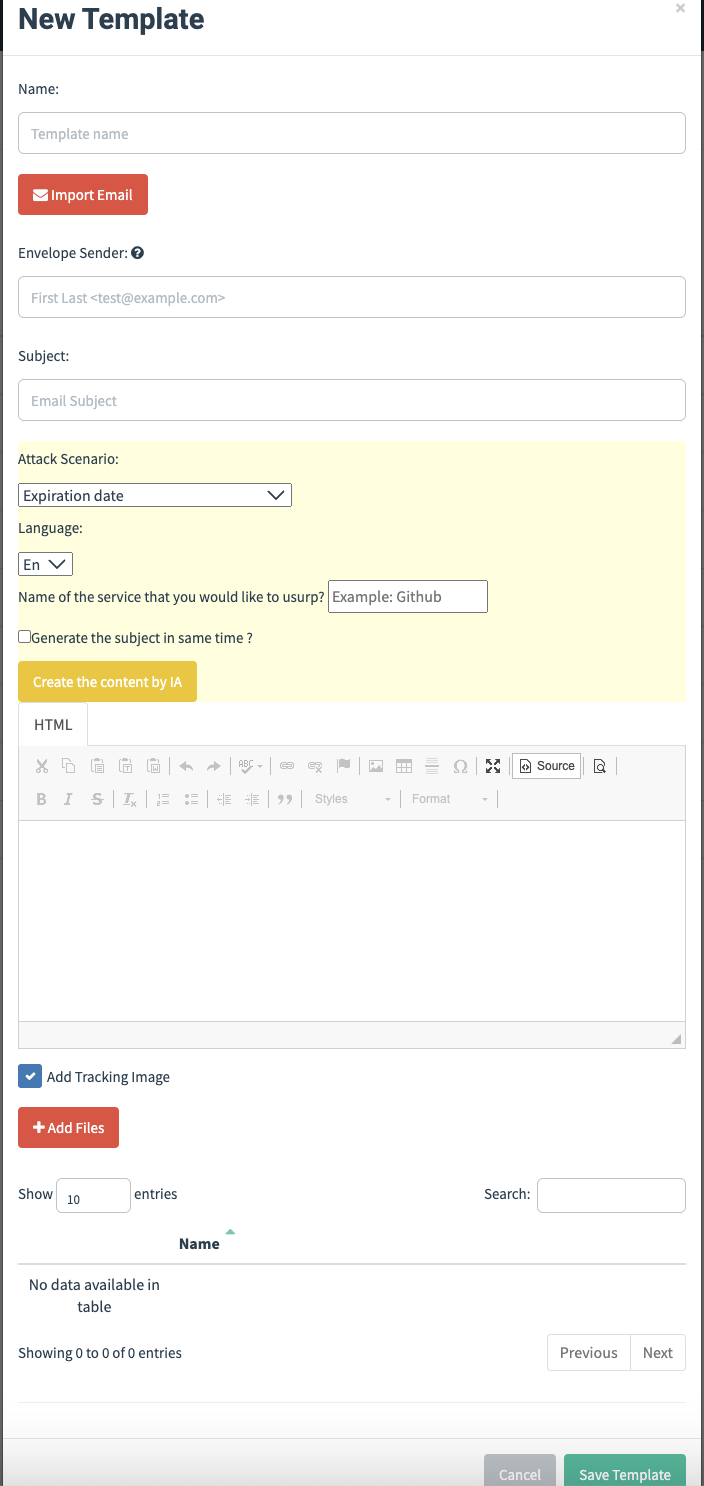
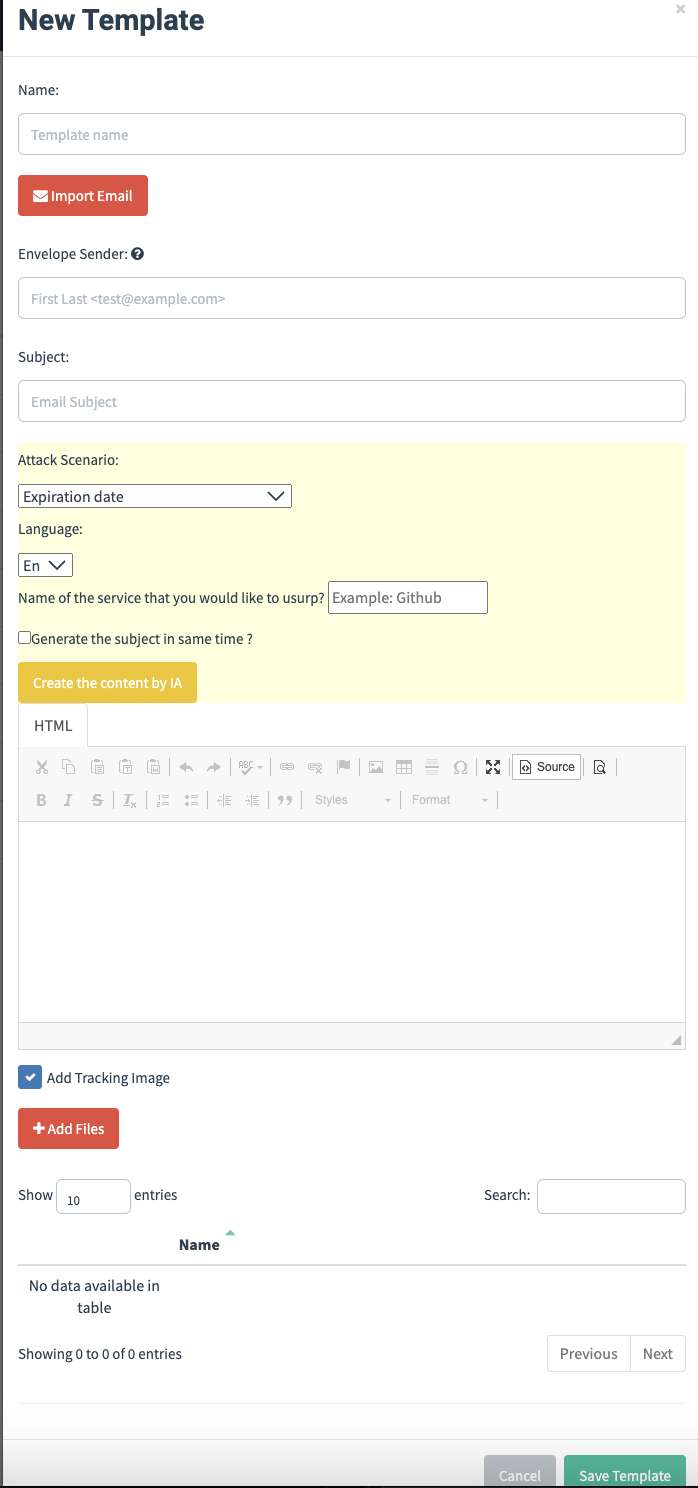
GITBOOK-34: change request with no subject merged in GitBook

diff --git a/documentation/templates.md b/documentation/templates.md
@@ -8,13 +8,15 @@ Additionally, templates can contain tracking images so that gophish knows when t
 
 To create a template, first navigate to the “Email Templates” page and click the “New Template” button.
 
-![](<../.gitbook/assets/image (4).png>)
+![](../.gitbook/assets/image.png)
+
+The envelloper sender define the email that will be displayed in the email. We recommend you to use a domain that you bought via the Domain page.&#x20;
 
 ### Using the HTML Editor
 
 A powerful feature of Gophish is the HTML editor. To switch between the HTML source code and the visual view, click the "Source" button.
 
-![HTML Editor](https://imgur.com/elue6xK.png)
+![](<../.gitbook/assets/image (1).png>)
 
 This is helpful to ensure that the email received by the user is pixel-perfect.
 

diff --git a/building-your-first-campaign/creating-the-template.md b/building-your-first-campaign/creating-the-template.md
@@ -6,7 +6,7 @@ To create the template we will use for our Morning Catch campaign, first navigat
 
 We invite you to read [Template documentation](../documentation/templates.md)
 
-![](../.gitbook/assets/image.png)
+![](<../.gitbook/assets/image (2).png>)
 
 We notice that Morning Catch comes with a webmail portal. Let’s craft a simple template that suggests the user needs to go reset their password. Obviously, this is a simple scenario, and by using the "Import Email" feature, you can import existing emails directly into gophish for a greater effect.
 

diff --git a/documentation/campaigns.md b/documentation/campaigns.md
@@ -35,7 +35,7 @@ After you have the campaign configuration ready to go, click the "Launch Campaig
 
 When a campaign is launched, you are automatically redirected to the campaign results screen:
 
-<figure><img src="../.gitbook/assets/image (1).png" alt=""><figcaption></figcaption></figure>
+<figure><img src="../.gitbook/assets/image (1) (1).png" alt=""><figcaption></figcaption></figure>
 
 On the results page, you will see overview information on the campaign status as well as detailed results for each target.
 

diff --git a/documentation/webhooks.md b/documentation/webhooks.md
@@ -6,7 +6,7 @@ When you configure a webhook, Gottaphish will make (optionally signed) HTTP requ
 
 Gottaphish supports multiple webhooks. Only users with the Admin role are able to create webhooks by navigating to the "Webhooks" sidebar entry and clicking the "New Webhook" button.
 
-<figure><img src="../.gitbook/assets/image (2).png" alt=""><figcaption></figcaption></figure>
+<figure><img src="../.gitbook/assets/image (2) (2).png" alt=""><figcaption></figcaption></figure>
 
 ### Validating Signatures
 
